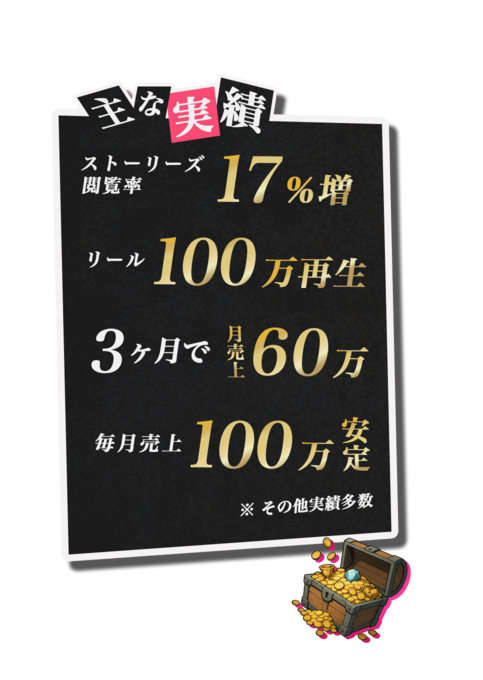
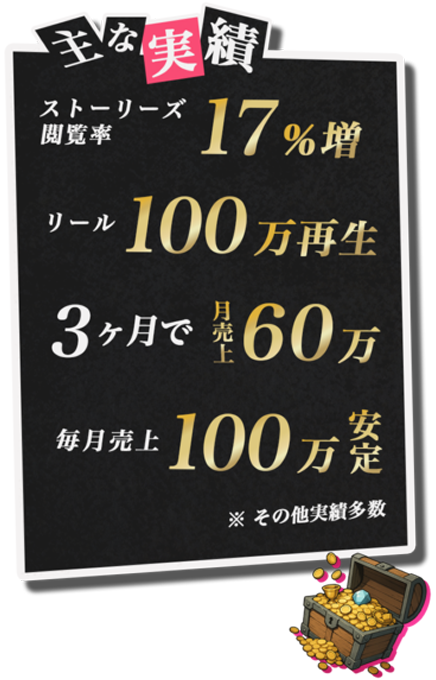
jissekiのサイズ調整

diff --git a/style.css b/style.css
@@ -192,10 +192,10 @@ footer a {
 
 .jisseki-img {
   position: absolute;
-  top: 55%;
-  left: -12%;
+  top: 62%;
+  left: 0%;
   transform: translateX(-50%);
-  width: 130%;
+  width: 100%;
   height: auto;
   z-index: 10;
 }
@@ -203,12 +203,14 @@ footer a {
 /* PC表示で調整 */
 @media screen and (min-width: 768px) {
   .jisseki-img {
-    top: 55%;
-    left: -10%;
-    width: 150%;
+    top: 62%;
+    left: 0%;
+    transform: translateX(-50%);
+    width: 100%;
     max-width: 1280px;
   }
 }
+
 
 .anatanonozomi-img {
   position: absolute;
@@ -616,3 +618,4 @@ footer a {
     --slide-out: 100%;
   }
 }
+
